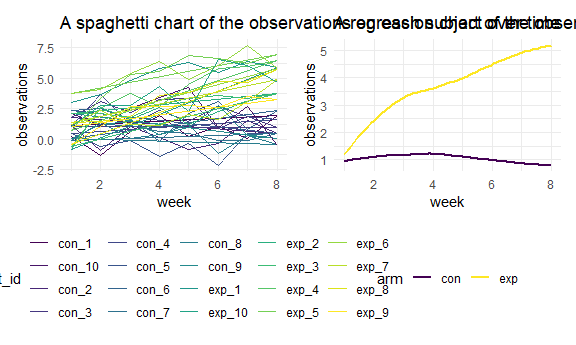
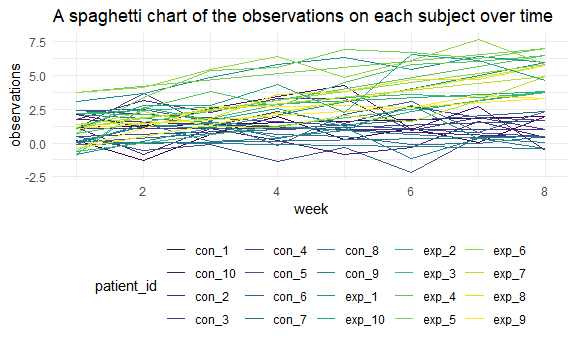
final commit

diff --git a/p8105_hw5_rw2844.md b/p8105_hw5_rw2844.md
@@ -446,12 +446,18 @@ lda_plt2 =
   ggtitle("A regression chart of the observations between control arm and experimental arm")
 
 
-lda_plt1+lda_plt2
+lda_plt1
+```
+
+<img src="p8105_hw5_rw2844_files/figure-gfm/spaghetti_plot-1.png" width="100%" />
+
+``` r
+lda_plt2
 ```
 
     ## `geom_smooth()` using method = 'loess' and formula 'y ~ x'
 
-<img src="p8105_hw5_rw2844_files/figure-gfm/spaghetti_plot-1.png" width="100%" />
+<img src="p8105_hw5_rw2844_files/figure-gfm/spaghetti_plot-2.png" width="100%" />
 
 **Comments:**
 
@@ -572,7 +578,12 @@ results_df %>%
 **Comments:**
 
 As the plot above shows, the sample average of mu\_hat across tests for
-which the null is rejected is not approximate to the true value of mu.
-Since we rejected the null, our sample mean is far away from the mean
-under the null hypothesis, and the average of mean of the rejected tests
-is far away from the null too.
+which the null is rejected is not approximate to the true value of mu
+when the mu equals to 1,2 and 3. Since we rejected the null, our sample
+mean is far away from the mean under the null hypothesis when the sample
+mean is relatively low, and the average of mean of the rejected tests is
+far away from the null too.
+
+However, when mu equals to 4,5 and 6, the rejected estimates are
+approximately equal to the true value of mu since we almost reject all
+tests.
